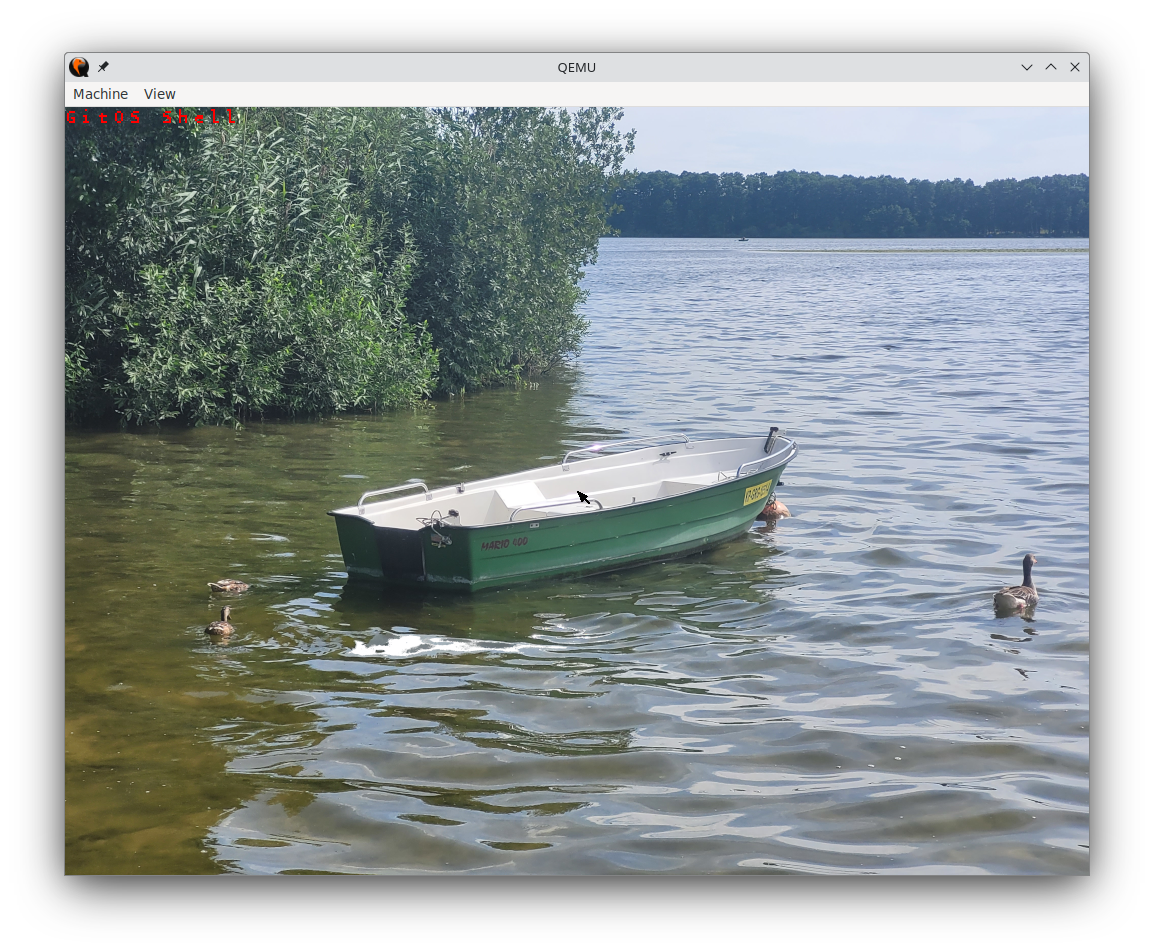
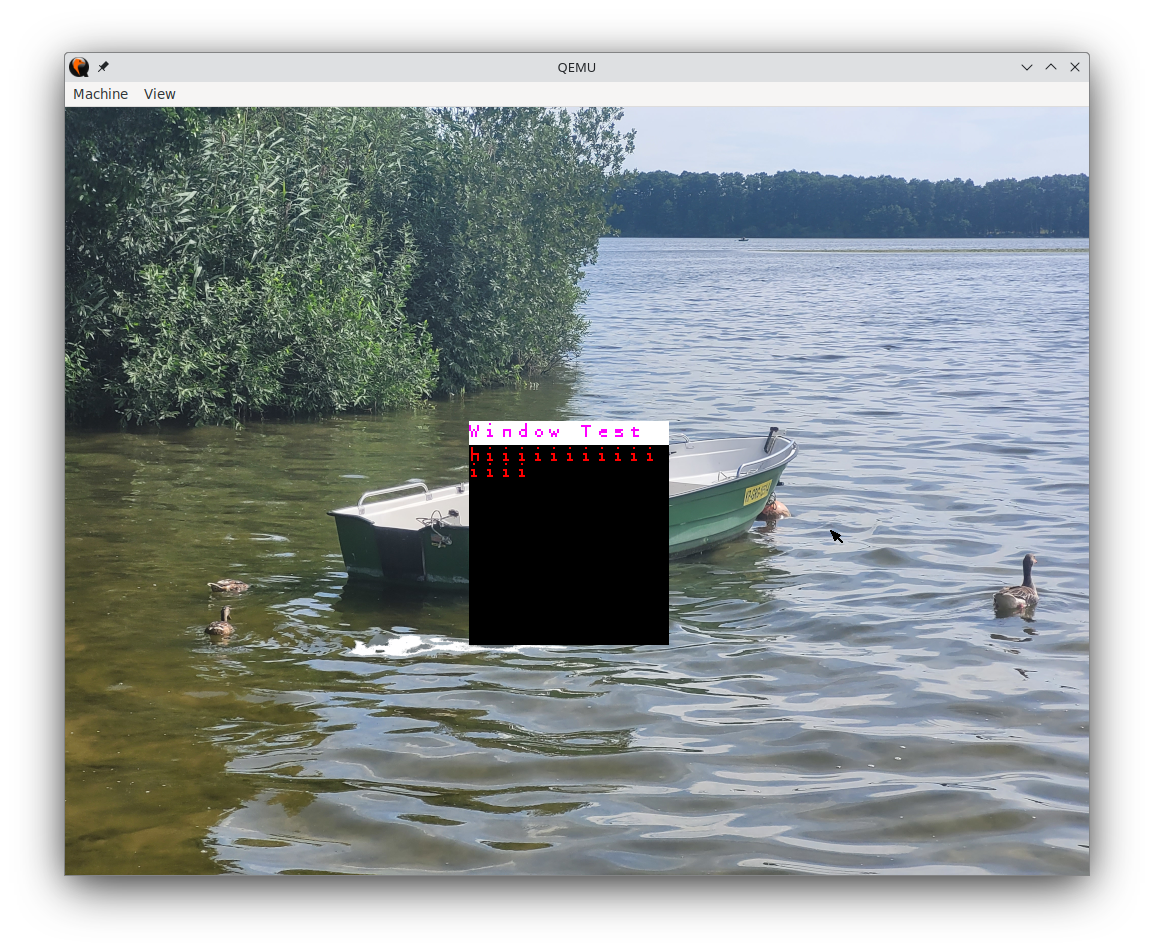
U: Basic window movement capability

Changed region(s): [[0.4055, 0.4265, 0.5927, 0.7006]]

diff --git a/src/userland/shell/shell.cpp b/src/userland/shell/shell.cpp
@@ -31,6 +31,7 @@ struct window
     uint8_t* fd = nullptr;
     char* name;
     bool dirty;
+    bool moving = false;
 };
 
 int main(int argc, char** argv) {
@@ -97,9 +98,12 @@ int main(int argc, char** argv) {
     auto* tmp_window_message_set_size = new window_message_set_size;
     auto* tmp_char = new char;
 
+    uint32_t title_bar_sz = 24;
+
+    bool compositor_dirty = true;
+
     while (true) {
         file_stat stat{};
-
         file_stat ipc_stat{};
 
         fstat(ipc_fd, &ipc_stat);
@@ -160,13 +164,11 @@ int main(int argc, char** argv) {
             if (!window->dirty)
                 continue;
 
-            uint32_t title_bar_sz = 24;
-
             for (uint32_t y = 0; y < title_bar_sz; y++) {
                 int off = fbg->get_offset( window->x, window->y + y);
                 for (uint32_t x = 0; x < window->width; x++)
                 {
-                    fbg->draw_pixel(x, y, 0xffffffff);
+                    fbg->draw_pixel(window->x + x, window->y + y, 0xffffffff);
                 }
                 fbg->draw_string(window->x, window->y, window->name, 0x00ff00ff);
                 fseek(framebuffer_fd, off, SEEK_SET);
@@ -189,6 +191,39 @@ int main(int argc, char** argv) {
         }
 
         fread(data, sizeof(mouse_packet), 1, mouse_fd);
+
+
+
+        for (int i = 0; i < 32; i++) // TODO: This should be a list traversal
+        {
+            auto window = &windows[i]; // TODO: This should be a list traversal
+
+            if (window->fd == nullptr)
+                continue;
+
+            if ((data->buttons & 1) == 1 && mouse_x > window->x && mouse_x - window->x < window->width && mouse_y > window->y && mouse_y - window->y < title_bar_sz)
+            {
+                window->x += data->x;
+                window->y += data->y;
+                window->moving = true;
+            } else if ((data->buttons & 1) == 0 && window->moving)
+            {
+                window->moving = false;
+                compositor_dirty = true;
+            }
+        }
+
+        if (compositor_dirty)
+        {
+            for (uint32_t y = 0; y < background->get_height(); y++) {
+                for (uint32_t x = 0; x < background->get_width(); x++) {
+                    fbg->draw_pixel(x,y,background->get_pixel(x,y));
+                }
+            }
+            fseek(framebuffer_fd, 0, SEEK_SET);
+            fwrite(fbg->get_buffer(), fbg->get_buffer_size(), 1, framebuffer_fd);
+            compositor_dirty = false;
+        }
 
         for (uint32_t y = 0; y < cursor->get_height(); y++) {
             for (uint32_t x = 0; x < cursor->get_width(); x++) {
